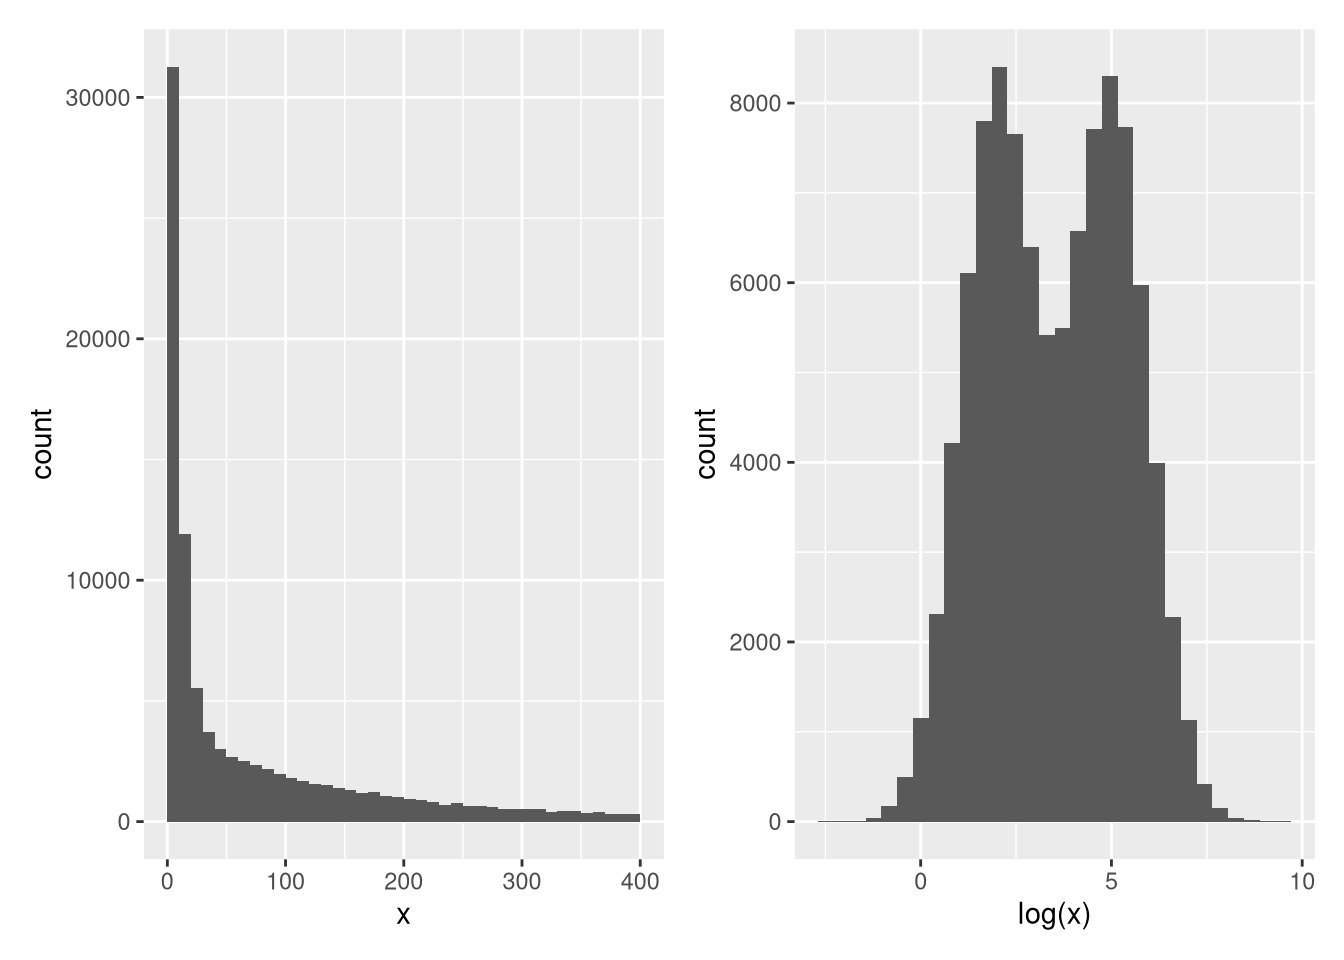
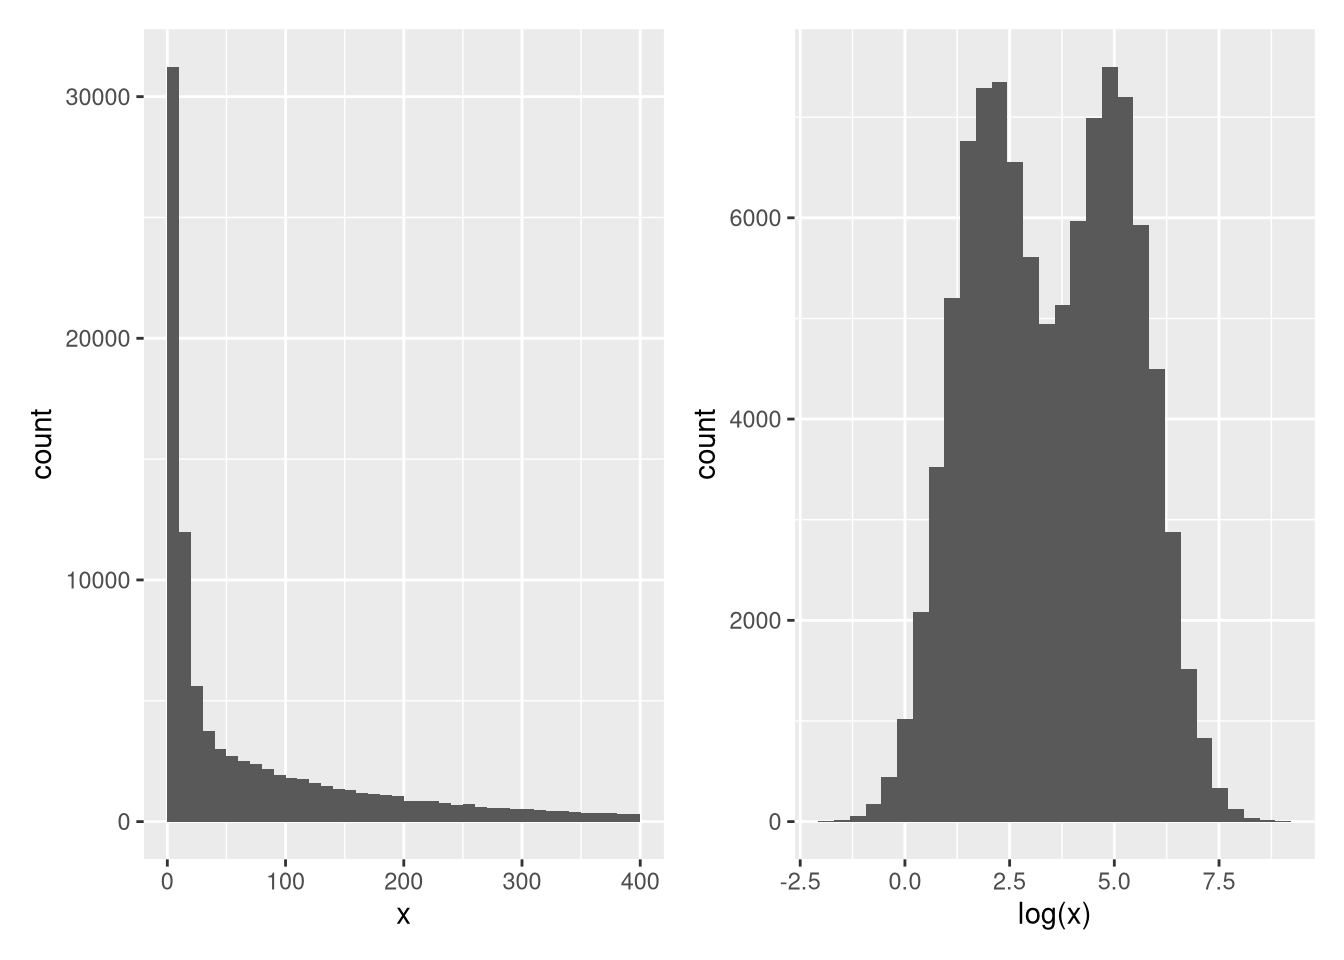
add note about MSnSet

diff --git a/docs/sec-ul.html b/docs/sec-ul.html
@@ -14,7 +14,7 @@
 
 <meta name="author" content="Laurent Gatto" />
 
-<meta name="date" content="2021-10-27" />
+<meta name="date" content="2021-10-28" />
 
 <script type="text/x-mathjax-config">
 MathJax.Hub.Config({
@@ -374,7 +374,7 @@ Figure 9.2: Visualisation of the average sample, in red.
 <h2>
 <span class="header-section-number">9.3</span> k-means clustering<div class="tooltip"><button class="internal-link-btn" onclick="copy_link('k-means-clustering')" onmouseout="reset_tooltip('k-means-clustering-tooltip')"><span class="tooltiptext" id="k-means-clustering-tooltip">Copy link</span><i class="fa fa-link"></i></button></div>
 </h2>
-<p>The k-means clustering algorithm<label for="tufte-sn-11" class="margin-toggle sidenote-number">11</label><input type="checkbox" id="tufte-sn-11" class="margin-toggle"><span class="sidenote"><span class="sidenote-number">11</span> We will learn how the algorithm works below.</span> aims at partitioning <em>n</em>
+<p>The k-means clustering algorithm<label for="tufte-sn-12" class="margin-toggle sidenote-number">12</label><input type="checkbox" id="tufte-sn-12" class="margin-toggle"><span class="sidenote"><span class="sidenote-number">12</span> We will learn how the algorithm works below.</span> aims at partitioning <em>n</em>
 observations into a fixed number of <em>k</em> clusters. This algorithm will
 find homogeneous clusters.</p>
 <p>In R, we use</p>
@@ -660,7 +660,7 @@ Figure 9.10: Hierarchical clustering: initialisation (left) and colour-coded res
 <img src="WSBIM1322_files/figure-html/hcldata-1.png" alt="Hierarchical clustering: initialisation (left) and colour-coded results after iteration (right)." width="1152">
 </div>
 <p>The results of hierarchical clustering are typically visualised along
-a <strong>dendrogram</strong><label for="tufte-sn-12" class="margin-toggle sidenote-number">12</label><input type="checkbox" id="tufte-sn-12" class="margin-toggle"><span class="sidenote"><span class="sidenote-number">12</span> Note that dendrograms, or trees in general, are used in
+a <strong>dendrogram</strong><label for="tufte-sn-13" class="margin-toggle sidenote-number">13</label><input type="checkbox" id="tufte-sn-13" class="margin-toggle"><span class="sidenote"><span class="sidenote-number">13</span> Note that dendrograms, or trees in general, are used in
 evolutionary biology to visualise the evolutionary history of
 taxa. In this course, we use them to represent similarities (based
 on distances) and don’t assess any evolutionary relations between
@@ -996,7 +996,7 @@ average marker profiles, such as shown below.</p></li>
 <a href="sec-sl.html"><button class="btn btn-default">Next</button></a>
 </p>
 <p class="build-date">Page built: 
-2021-10-27
+2021-10-28
  using 
 R version 4.1.0 (2021-05-18)
 </p>

diff --git a/docs/sec-sl.html b/docs/sec-sl.html
@@ -14,7 +14,7 @@
 
 <meta name="author" content="Laurent Gatto" />
 
-<meta name="date" content="2021-10-27" />
+<meta name="date" content="2021-10-28" />
 
 <script type="text/x-mathjax-config">
 MathJax.Hub.Config({
@@ -376,7 +376,7 @@ labelled data that will be used to train the model and named
 </p>
 </div>
 </div>
-<p>The <code>knn</code> function takes, among others<label for="tufte-sn-13" class="margin-toggle sidenote-number">13</label><input type="checkbox" id="tufte-sn-13" class="margin-toggle"><span class="sidenote"><span class="sidenote-number">13</span> we will see additional ones later.</span>, the following arguments:</p>
+<p>The <code>knn</code> function takes, among others<label for="tufte-sn-14" class="margin-toggle sidenote-number">14</label><input type="checkbox" id="tufte-sn-14" class="margin-toggle"><span class="sidenote"><span class="sidenote-number">14</span> we will see additional ones later.</span>, the following arguments:</p>
 <ol style="list-style-type: decimal">
 <li>the labelled predictors, that will be used to <em>train</em> the model,</li>
 <li>the unlabelled predictors, on which the model will be applied (see
@@ -908,7 +908,7 @@ not too much. If the model is too specific for the data that was used
 to build it (the model would be said to be <strong>over fitting the data</strong>)
 and would not be applicable to new data (the model would have high
 bias). On the other hand, a model that is too general, that wouldn’t
-be applicable enough to the data, or type of data at hand<label for="tufte-sn-14" class="margin-toggle sidenote-number">14</label><input type="checkbox" id="tufte-sn-14" class="margin-toggle"><span class="sidenote"><span class="sidenote-number">14</span> In our example, this would equate to the expression of the
+be applicable enough to the data, or type of data at hand<label for="tufte-sn-15" class="margin-toggle sidenote-number">15</label><input type="checkbox" id="tufte-sn-15" class="margin-toggle"><span class="sidenote"><span class="sidenote-number">15</span> In our example, this would equate to the expression of the
 four genes of interest in a specific population of cancer
 patients, for example.</span>, it
 would perform poorly, and hence lead to high variance.</p>
@@ -1054,7 +1054,7 @@ most reliable assignments one, and setting the unreliable ones to
 <a href="sec-biovis.html"><button class="btn btn-default">Next</button></a>
 </p>
 <p class="build-date">Page built: 
-2021-10-27
+2021-10-28
  using 
 R version 4.1.0 (2021-05-18)
 </p>

diff --git a/docs/sec-dimred.html b/docs/sec-dimred.html
@@ -14,7 +14,7 @@
 
 <meta name="author" content="Laurent Gatto" />
 
-<meta name="date" content="2021-10-27" />
+<meta name="date" content="2021-10-28" />
 
 <script type="text/x-mathjax-config">
 MathJax.Hub.Config({
@@ -710,7 +710,10 @@ investigation of these processes.</p>
 </p>
 <div class="question-body">
 <p>Load the <code>mulvey2015</code> data from the <code>pRolocdata</code> package. The data
-comes as an object of class <code>MSnSet</code>, which you can convert to a
+comes as an object of class <code>MSnSet</code><label for="tufte-sn-11" class="margin-toggle sidenote-number">11</label><input type="checkbox" id="tufte-sn-11" class="margin-toggle"><span class="sidenote"><span class="sidenote-number">11</span> The <a href="https://lgatto.github.io/MSnbase/reference/MSnSet-class.html"><code>MSnSet</code>
+class</a>
+is similar to the <code>SummarizedExperiment</code>, that we have seen in
+detail in chapter <a href="sec-obj.html#sec-obj">3</a>.</span>, which you can convert to a
 <code>SummarizedExperiment</code> as shown below. Familiarise yourself with its
 experimental design stored in the <em>colData</em> slot.</p>
 <div class="sourceCode" id="cb328"><pre class="sourceCode r"><code class="sourceCode r"><span id="cb328-1"><a href="sec-dimred.html#cb328-1" aria-hidden="true" tabindex="-1"></a><span class="fu">library</span>(pRolocdata)</span>
@@ -1339,7 +1342,7 @@ the labels?</p>
 <a href="sec-ul.html"><button class="btn btn-default">Next</button></a>
 </p>
 <p class="build-date">Page built: 
-2021-10-27
+2021-10-28
  using 
 R version 4.1.0 (2021-05-18)
 </p>

diff --git a/docs/sec-vis.html b/docs/sec-vis.html
@@ -14,7 +14,7 @@
 
 <meta name="author" content="Laurent Gatto" />
 
-<meta name="date" content="2021-10-27" />
+<meta name="date" content="2021-10-28" />
 
 <script type="text/x-mathjax-config">
 MathJax.Hub.Config({
@@ -920,7 +920,7 @@ of the data.</p>
 <span id="cb37-9"><a href="sec-vis.html#cb37-9" aria-hidden="true" tabindex="-1"></a>p2 <span class="ot">&lt;-</span>  <span class="fu">ggplot</span>(sim, <span class="fu">aes</span>(<span class="fu">log</span>(x))) <span class="sc">+</span></span>
 <span id="cb37-10"><a href="sec-vis.html#cb37-10" aria-hidden="true" tabindex="-1"></a>    <span class="fu">geom_histogram</span>(<span class="at">bins =</span> <span class="dv">30</span>)</span>
 <span id="cb37-11"><a href="sec-vis.html#cb37-11" aria-hidden="true" tabindex="-1"></a>p1 <span class="sc">+</span> p2</span></code></pre></div>
-<pre><code>## Warning: Removed 8030 rows containing non-finite values (stat_bin).</code></pre>
+<pre><code>## Warning: Removed 8191 rows containing non-finite values (stat_bin).</code></pre>
 <div class="figure">
 <span style="display:block;" id="fig:sim"></span>
 <p class="caption marginnote shownote">
@@ -1166,7 +1166,7 @@ otherwise. Below are some example outputs.</p>
 <a href="sec-obj.html"><button class="btn btn-default">Next</button></a>
 </p>
 <p class="build-date">Page built: 
-2021-10-27
+2021-10-28
  using 
 R version 4.1.0 (2021-05-18)
 </p>

diff --git a/docs/index.html b/docs/index.html
@@ -14,7 +14,7 @@
 
 <meta name="author" content="Laurent Gatto" />
 
-<meta name="date" content="2021-10-27" />
+<meta name="date" content="2021-10-28" />
 
 <script type="text/x-mathjax-config">
 MathJax.Hub.Config({
@@ -340,7 +340,7 @@ style</a> <span class="citation">(<label for="tufte-mn-10" class="margin-toggle"
 <a href="sec-refresher.html"><button class="btn btn-default">Next</button></a>
 </p>
 <p class="build-date">Page built: 
-2021-10-27
+2021-10-28
  using 
 R version 4.1.0 (2021-05-18)
 </p>

diff --git a/docs/sec-biovis.html b/docs/sec-biovis.html
@@ -14,7 +14,7 @@
 
 <meta name="author" content="Laurent Gatto" />
 
-<meta name="date" content="2021-10-27" />
+<meta name="date" content="2021-10-28" />
 
 <script type="text/x-mathjax-config">
 MathJax.Hub.Config({
@@ -487,7 +487,7 @@ number of intersectios (default is 40) become useful.</p>
 <a href="sec-ccl.html"><button class="btn btn-default">Next</button></a>
 </p>
 <p class="build-date">Page built: 
-2021-10-27
+2021-10-28
  using 
 R version 4.1.0 (2021-05-18)
 </p>

diff --git a/docs/sec-mlintro.html b/docs/sec-mlintro.html
@@ -14,7 +14,7 @@
 
 <meta name="author" content="Laurent Gatto" />
 
-<meta name="date" content="2021-10-27" />
+<meta name="date" content="2021-10-28" />
 
 <script type="text/x-mathjax-config">
 MathJax.Hub.Config({
@@ -762,7 +762,7 @@ but these are beyond the scope of this course.</p>
 <a href="sec-testing.html"><button class="btn btn-default">Next</button></a>
 </p>
 <p class="build-date">Page built: 
-2021-10-27
+2021-10-28
  using 
 R version 4.1.0 (2021-05-18)
 </p>

diff --git a/docs/sec-obj.html b/docs/sec-obj.html
@@ -14,7 +14,7 @@
 
 <meta name="author" content="Laurent Gatto" />
 
-<meta name="date" content="2021-10-27" />
+<meta name="date" content="2021-10-28" />
 
 <script type="text/x-mathjax-config">
 MathJax.Hub.Config({
@@ -995,7 +995,7 @@ of class <code>SummarizedExperiment</code>.</p>
 <a href="sec-biostrings.html"><button class="btn btn-default">Next</button></a>
 </p>
 <p class="build-date">Page built: 
-2021-10-27
+2021-10-28
  using 
 R version 4.1.0 (2021-05-18)
 </p>

diff --git a/docs/sec-norm.html b/docs/sec-norm.html
@@ -14,7 +14,7 @@
 
 <meta name="author" content="Laurent Gatto" />
 
-<meta name="date" content="2021-10-27" />
+<meta name="date" content="2021-10-28" />
 
 <script type="text/x-mathjax-config">
 MathJax.Hub.Config({
@@ -749,7 +749,7 @@ implications for the normalisation step?</p>
 <a href="sec-mlintro.html"><button class="btn btn-default">Next</button></a>
 </p>
 <p class="build-date">Page built: 
-2021-10-27
+2021-10-28
  using 
 R version 4.1.0 (2021-05-18)
 </p>

diff --git a/docs/sec-refresher.html b/docs/sec-refresher.html
@@ -14,7 +14,7 @@
 
 <meta name="author" content="Laurent Gatto" />
 
-<meta name="date" content="2021-10-27" />
+<meta name="date" content="2021-10-28" />
 
 <script type="text/x-mathjax-config">
 MathJax.Hub.Config({
@@ -373,7 +373,7 @@ state it explicitly in your response.</p>
 <a href="sec-vis.html"><button class="btn btn-default">Next</button></a>
 </p>
 <p class="build-date">Page built: 
-2021-10-27
+2021-10-28
  using 
 R version 4.1.0 (2021-05-18)
 </p>

diff --git a/docs/sec-si.html b/docs/sec-si.html
@@ -14,7 +14,7 @@
 
 <meta name="author" content="Laurent Gatto" />
 
-<meta name="date" content="2021-10-27" />
+<meta name="date" content="2021-10-28" />
 
 <script type="text/x-mathjax-config">
 MathJax.Hub.Config({
@@ -322,7 +322,7 @@ the following code:</p>
 <a href="sec-ccl.html"><button class="btn btn-default">Previous</button></a>
 </p>
 <p class="build-date">Page built: 
-2021-10-27
+2021-10-28
  using 
 R version 4.1.0 (2021-05-18)
 </p>

diff --git a/docs/sec-testing.html b/docs/sec-testing.html
@@ -14,7 +14,7 @@
 
 <meta name="author" content="Laurent Gatto" />
 
-<meta name="date" content="2021-10-27" />
+<meta name="date" content="2021-10-28" />
 
 <script type="text/x-mathjax-config">
 MathJax.Hub.Config({
@@ -1133,7 +1133,7 @@ conclusion now?</li>
 <a href="sec-dimred.html"><button class="btn btn-default">Next</button></a>
 </p>
 <p class="build-date">Page built: 
-2021-10-27
+2021-10-28
  using 
 R version 4.1.0 (2021-05-18)
 </p>
